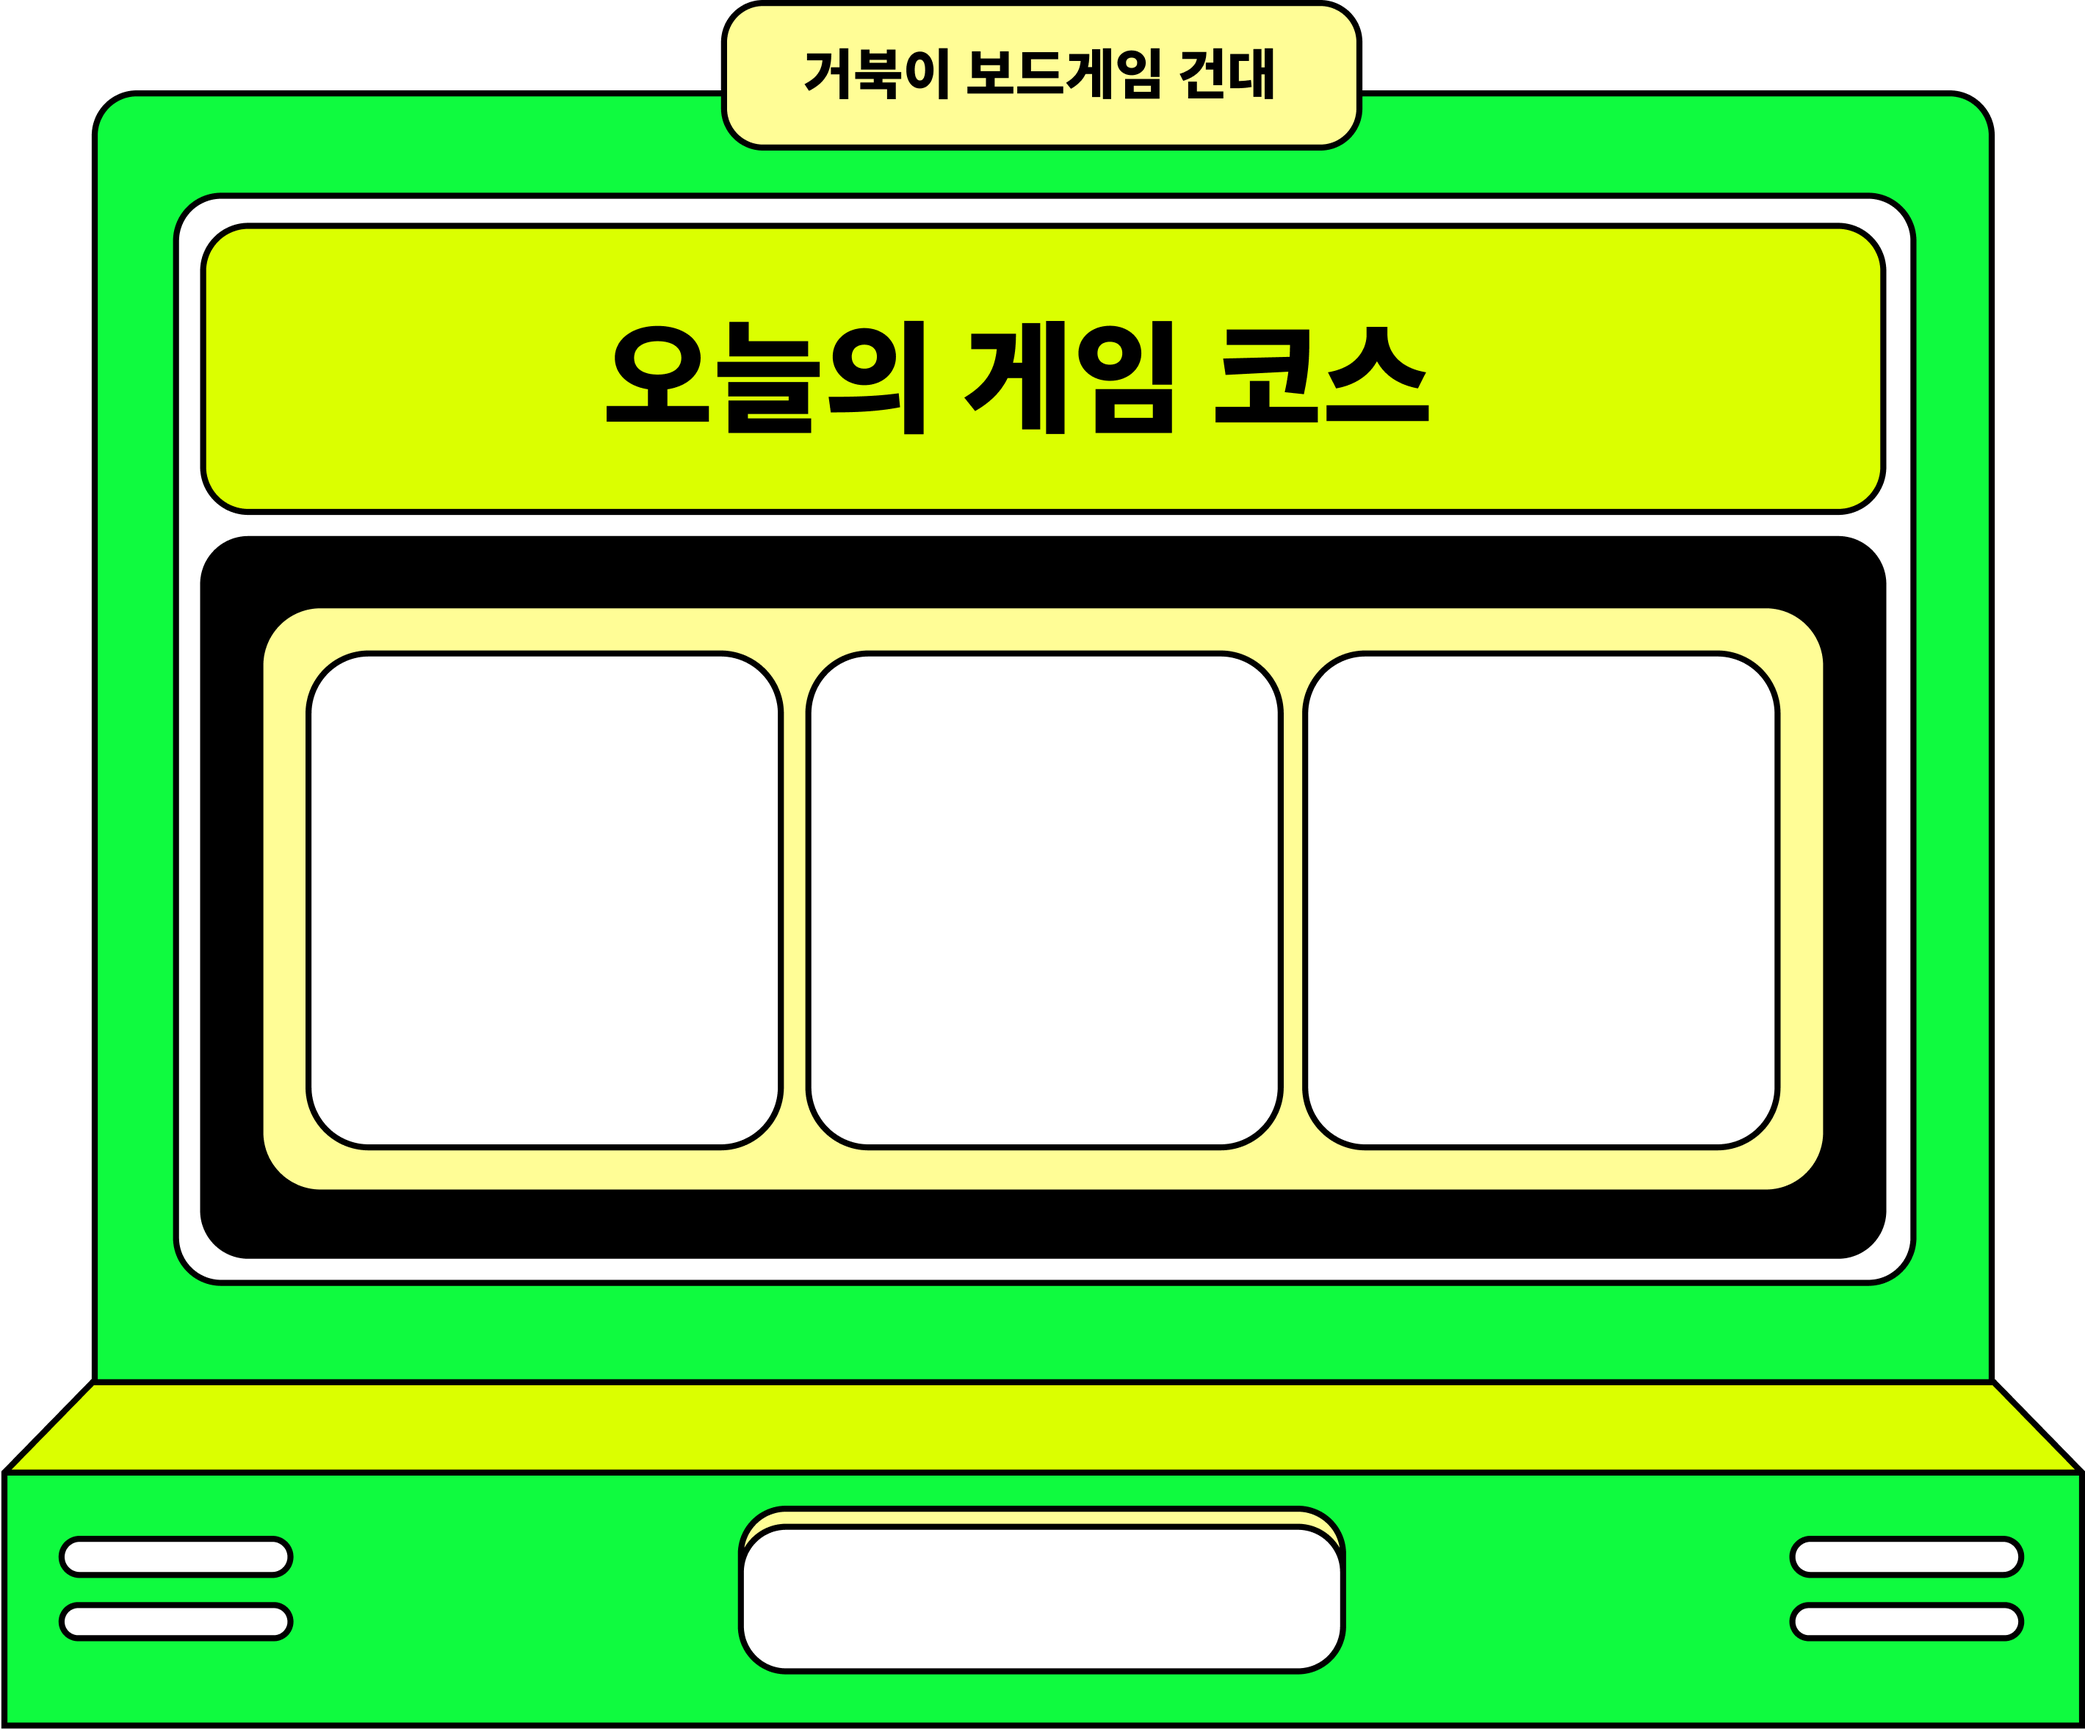
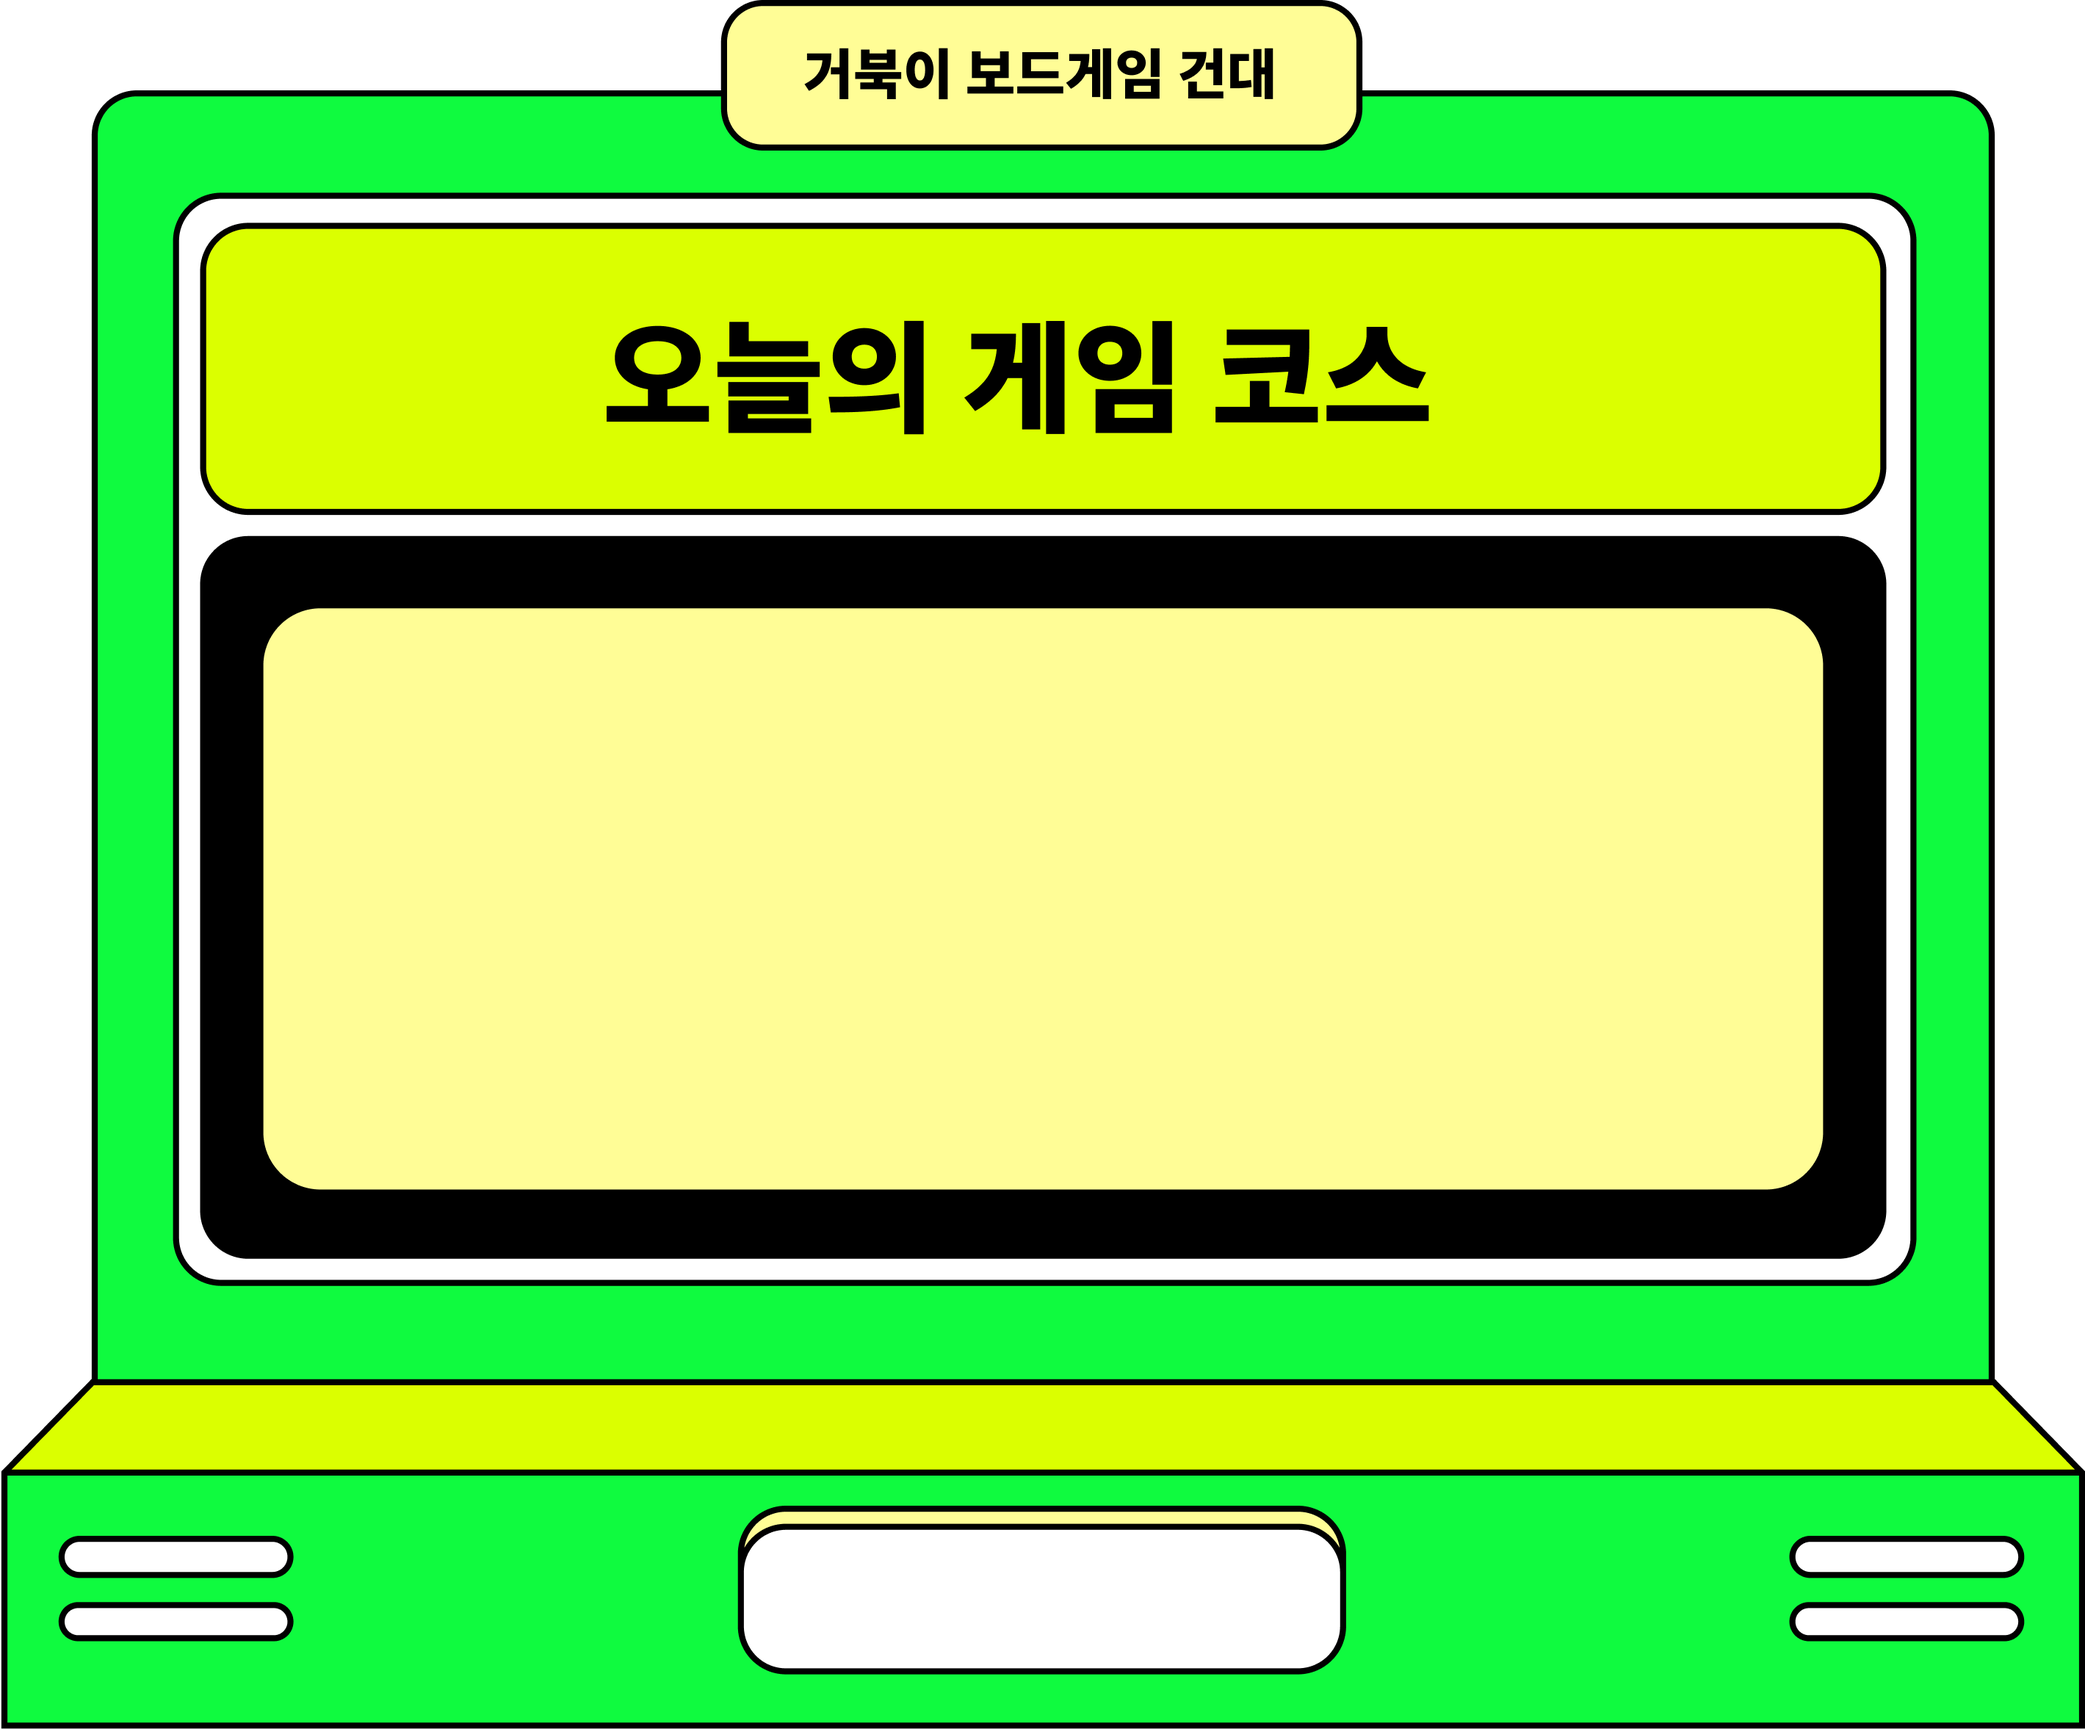
start btn & game-details added

Changed region(s): [[0.124, 0.3721, 0.8679, 0.6822]]

diff --git a/src/App.js b/src/App.js
@@ -98,13 +98,11 @@ const App = () => {
         </div>
         <div className="inner-contents">
           <div className="machine-frame">
-            {/* 머신 이미지 */}
             <img
               src={process.env.PUBLIC_URL + "/assets/machine-frame.png"}
               alt="Slot Machine Frame"
               className="machine-frame-img"
             />
-            {/* 머신 내용물 */}
             <div className="game-images">
               {selectedGames.map((game, index) => (
                 <div
@@ -120,7 +118,7 @@ const App = () => {
                       style={{
                         width: "100%",
                         height: "100%",
-                        objectFit: "cover", // 슬롯 사이즈에 맞추기
+                        objectFit: "cover",
                       }}
                     />
                   ) : (
@@ -129,20 +127,45 @@ const App = () => {
                 </div>
               ))}
             </div>
+            <div className="controls">
+              <button
+                className="start-button"
+                onClick={isSpinning ? stopSpinning : startSpinning}
+              >
+                {isSpinning ? "STOP" : "START"}
+              </button>
+            </div>
           </div>
-          <div className="game-detail">
-            {[0, 1, 2].map((_, idx) => (
-              <div className="detail-frame" key={idx}>
-                <img
-                  src={process.env.PUBLIC_URL + "/assets/detail-frame.png"}
-                  alt="Game Detail Frame"
-                  className="detail-frame-img"
-                />
-              </div>
-            ))}
-          </div>
+
+          {showDetails && (
+            <div className="game-details">
+              {selectedGames.map((game, index) => (
+                <div key={index} className="game-card">
+                  <img
+                    src={process.env.PUBLIC_URL + "/assets/detail-frame.png"}
+                    alt="Game Detail Frame"
+                    className="detail-frame-img"
+                  />
+                  <div className="game-title">
+                    {game ? game.alt : "게임 제목"}
+                  </div>
+                  {game && game.videoUrl !== "영상이 없습니다." && (
+                    <a
+                      href={game.videoUrl}
+                      target="_blank"
+                      rel="noopener noreferrer"
+                      className="video-button"
+                    >
+                      게임 방법
+                    </a>
+                  )}
+                </div>
+              ))}
+            </div>
+          )}
         </div>
       </div>
+
       <Footer />
     </div>
   );

diff --git a/src/App.css b/src/App.css
@@ -99,14 +99,6 @@ body {
   display: block;
 }
 
-.game-detail {
-  display: flex;
-  justify-content: space-between;
-  width: 100%;
-  height: auto;
-  padding: 0 10px;
-}
-
 .game-images {
   position: absolute; /* 절대 위치로 이미지 위에 배치 */
   top: 0;
@@ -125,7 +117,7 @@ body {
 .game-slot {
   width: 21%;
   height: 28%;
-  border: 1px dotted black;
+  border: 1px solid black;
   border-radius: 8px;
   overflow: hidden;
   position: relative;
@@ -147,6 +139,21 @@ body {
   height: 100%;
 }
 
+/* Start/Stop 버튼 스타일 */
+.start-button {
+  position: absolute;
+  bottom: 10%; /* 버튼을 이미지 하단으로 배치 */
+  left: 50%;
+  transform: translateX(-50%) translateY(85%);
+  display: inline-block;
+  padding: 3px 25px;
+  font-size: 18px;
+  font-weight: bold;
+  background-color: #ffffff;
+  border: none;
+  z-index: 20; /* 이미지와 버튼의 z-index 조정 */
+}
+
 /* detail gamge */
 .detail-frame {
   flex: 1; /* 동일한 비율로 공간 분배 */
@@ -159,8 +166,51 @@ body {
   padding-left: 8px;
 }
 
-/* 미디어 쿼리 */
+/* 게임 상세 정보 섹션 */
 
+.game-detail {
+  display: flex;
+  justify-content: space-between;
+  width: 100%;
+  padding: 0 10px;
+  margin-bottom: 20px; /* 아래 요소와 간격 추가 */
+}
+
+.game-details {
+  display: flex;
+  justify-content: center;
+  gap: 20px;
+  flex-wrap: wrap; /* 화면 크기에 따라 줄바꿈 */
+  margin-top: 10px; /* .detail-frame과의 간격 추가 */
+}
+
+.game-card {
+  background: white;
+  border: 2px solid #ddd;
+  text-align: center;
+  padding: 10px;
+  width: 150px;
+  border-radius: 8px;
+}
+
+.game-title {
+  font-size: 13px;
+  font-weight: bold;
+  margin-bottom: 10px;
+}
+
+.video-button {
+  display: inline-block;
+  background-color: #0ffb3f;
+  border: 1px solid black;
+  padding: 5px 15px;
+  font-size: 12px;
+  color: inherit;
+  text-decoration: none;
+  border-radius: 5px;
+}
+
+/* 미디어 쿼리 */
 @media (max-width: 768px) {
   .grid-section {
     height: 40%;
@@ -171,6 +221,10 @@ body {
   .game-images {
     gap: 11px; /* 이미지 사이 간격 추가 */
     margin-top: 13px;
+  }
+
+  .start-button {
+    padding: 1px 18px;
   }
 }
 
@@ -199,5 +253,17 @@ body {
   .game-images {
     gap: 6px; /* 이미지 사이 간격 추가 */
     margin-top: 9px;
+  }
+
+  .start-button {
+    padding: 2px;
+    font-size: 12px;
+  }
+}
+
+@media (max-width: 390px) {
+  .start-button {
+    padding: 2px;
+    font-size: 10px;
   }
 }
